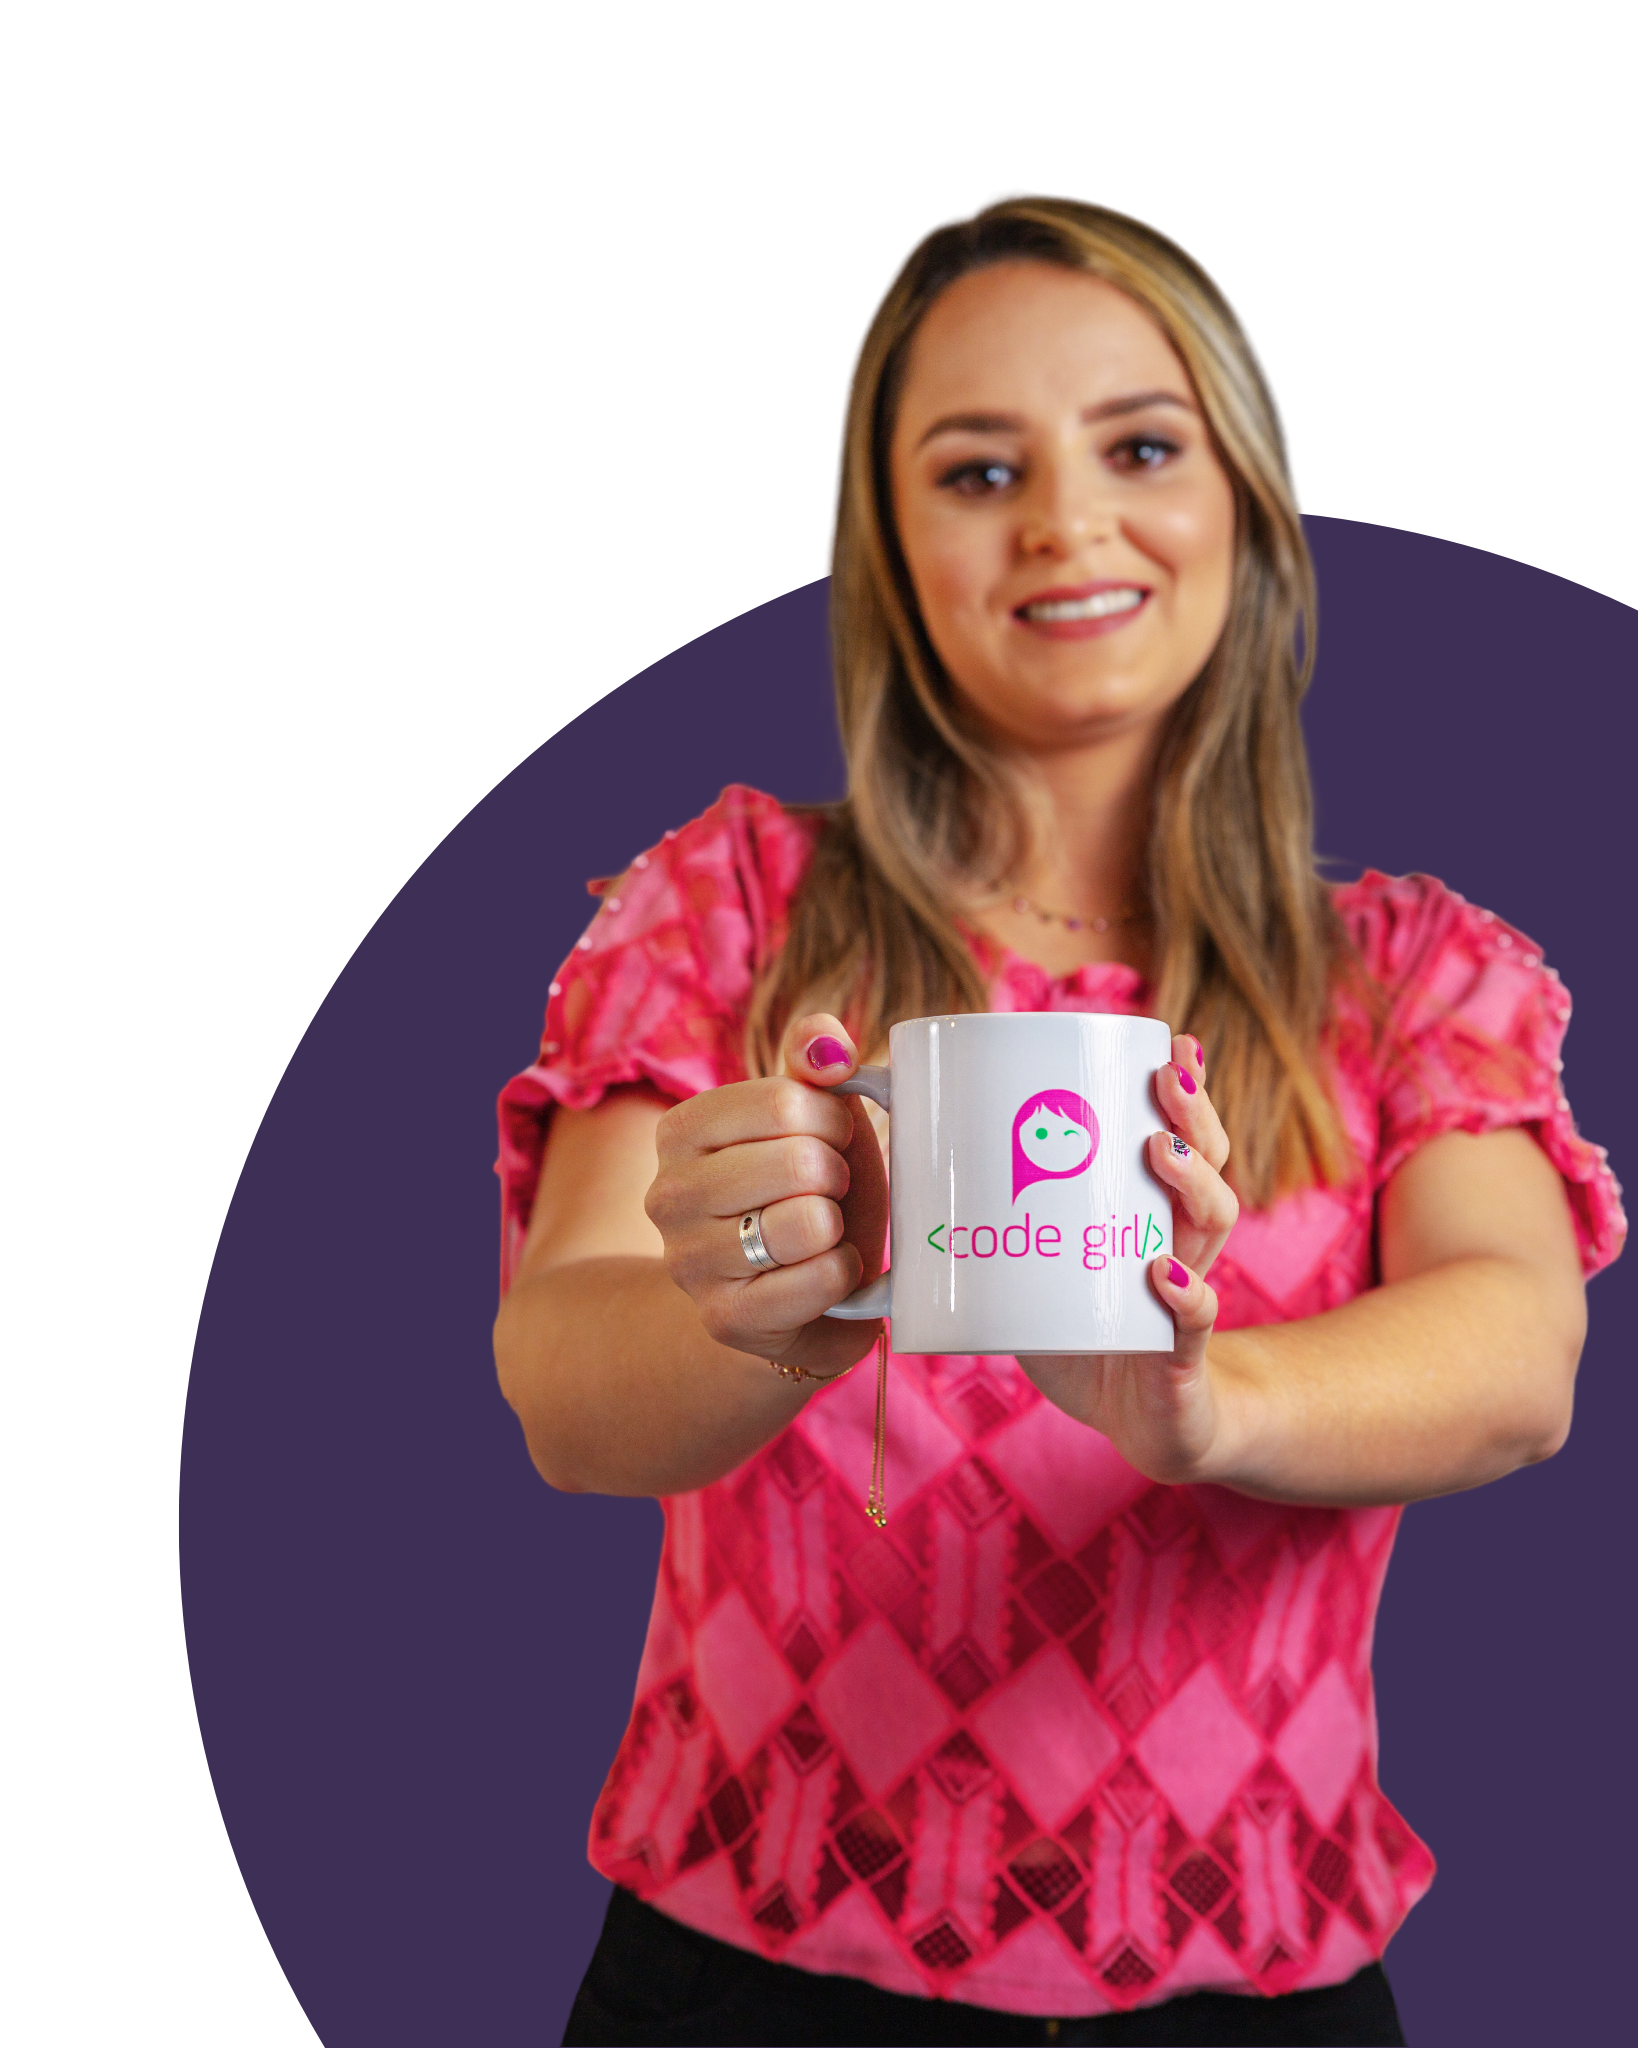
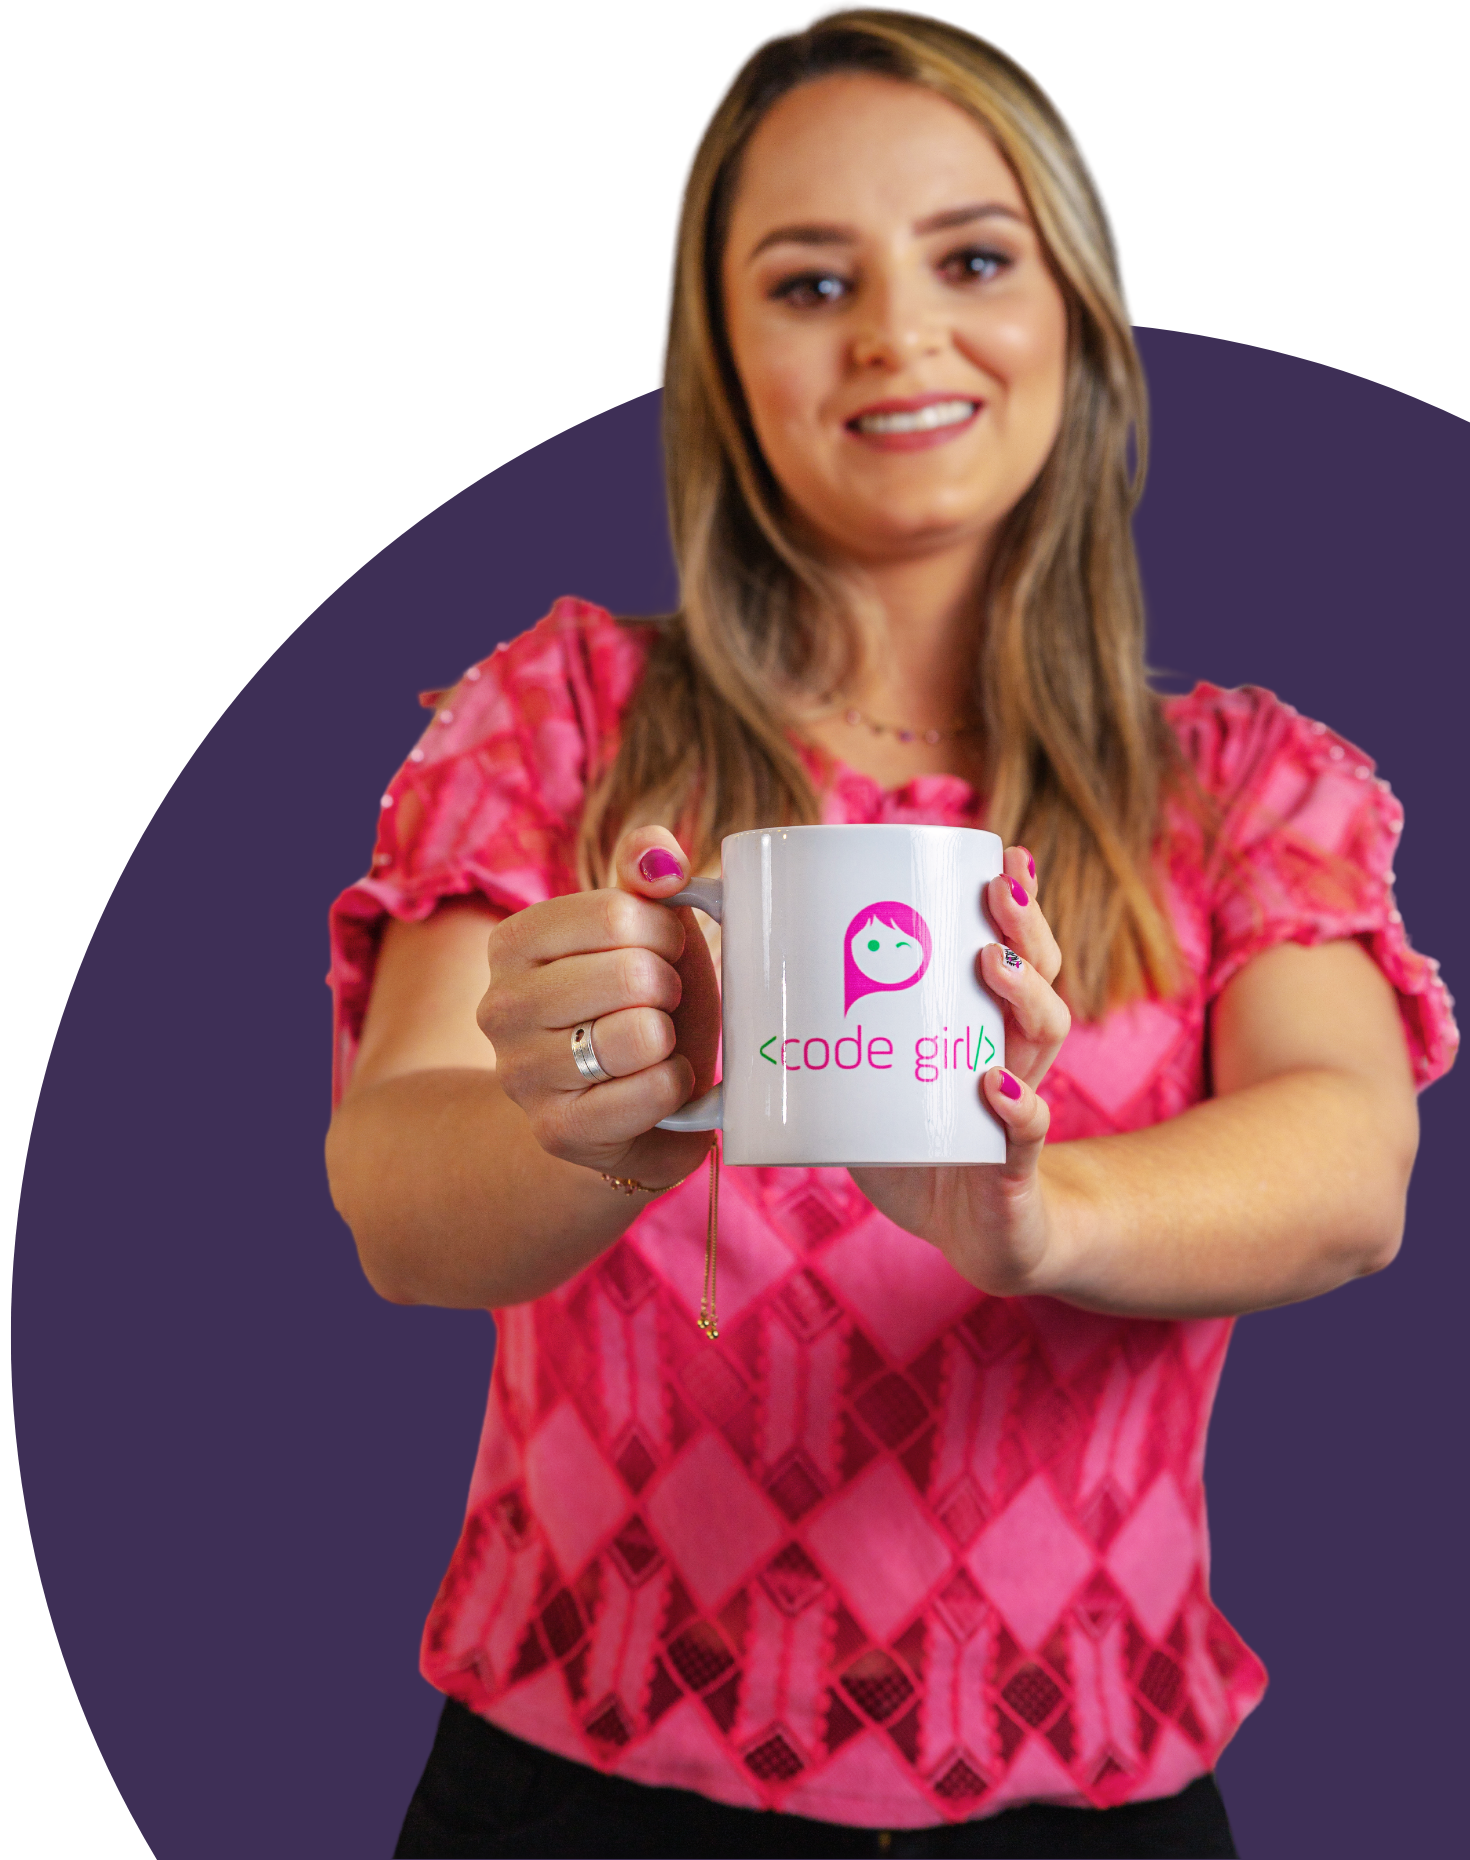
ajuste grid imagem

diff --git a/style.scss b/style.scss
@@ -28,7 +28,7 @@
     #principal {
         display: grid;
         grid-area: principal;
-        grid-template-areas: "titulo imagem" "texto imagem";
+        grid-template-areas: "titulo titulo" "texto imagem";
         grid-template-columns: 3fr 2fr;
         background-color: $roxo;
 
@@ -48,9 +48,8 @@
             grid-area: texto;
             display: flex;
             justify-content: center;
-            align-items: flex-start;
+            align-items: center;
             padding: 0 25px 25px 25px;
-
         }
 
         #imagem-principal {

diff --git a/style.css b/style.css
@@ -241,7 +241,7 @@
 #grid-principal #principal {
   display: grid;
   grid-area: principal;
-  grid-template-areas: "titulo imagem" "texto imagem";
+  grid-template-areas: "titulo titulo" "texto imagem";
   grid-template-columns: 3fr 2fr;
   background-color: #332649;
 }
@@ -259,7 +259,7 @@
   grid-area: texto;
   display: flex;
   justify-content: center;
-  align-items: flex-start;
+  align-items: center;
   padding: 0 25px 25px 25px;
 }
 #grid-principal #principal #imagem-principal {
